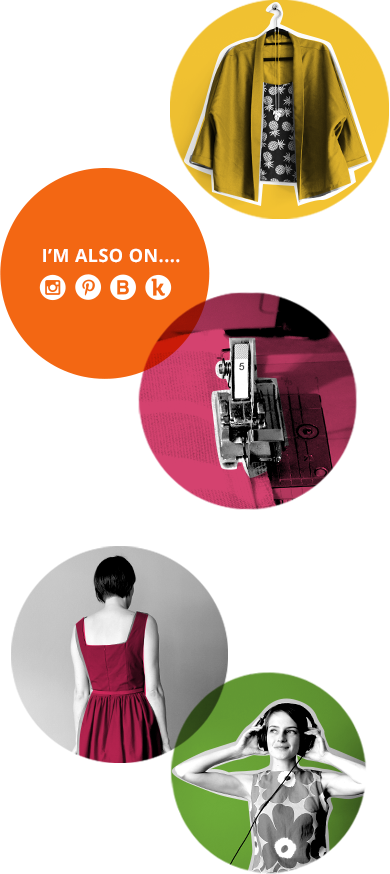
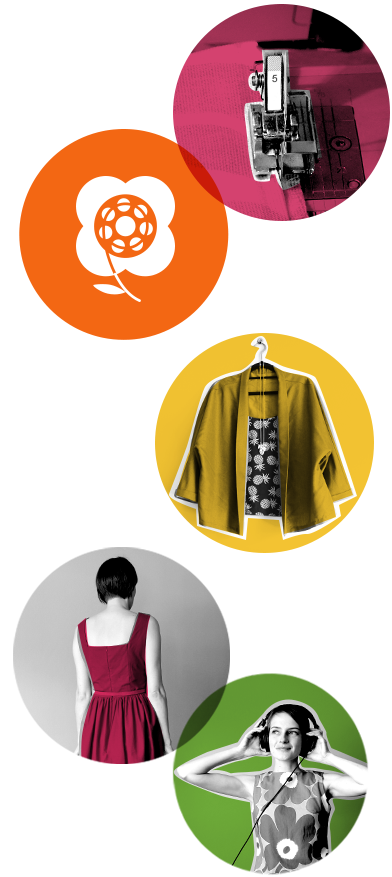
first post is ready to roll!

diff --git a/content/links.md b/content/links.md
@@ -6,13 +6,49 @@ title = "links"
 
 ![links image](/img/berneiandi-links.png)
 
-## SEWING
+## I'm also on...
 
-[A link](http://google.com)  
-[A link](http://google.com)  
-[A link](http://google.com)  
-[A link](http://google.com)  
-[A link](http://google.com)  
-[A link](http://google.com)  
+- [My Instagram](https://www.instagram.com/kathborup/)
+- [My Pinterest](https://au.pinterest.com/kathborup/)
 
+
+## Tutorials
+
+- [Grainline studio (sewing tutorials)](http://grainlinestudio.com/category/sewing-tutorials/)
+- [Sewaholic (sewing tutorials)](http://sewaholic.net/tag/tutorials/)
+- [TILLY AND THE BUTTONS (sewing tutorials)](http://www.tillyandthebuttons.com/p/learn-to-sew.html)
+- [Colette (tutorials)](https://blog.colettehq.com/category/tutorials)
+- [A beautiful mess (craft D.I.Ys)](http://www.abeautifulmess.com/crafts/)
+- [Professor Pincushion (youtube sewing video tutorials)](https://www.youtube.com/user/ProfessorPincushion)
+- [Fashion Sewing TV](https://www.youtube.com/user/FashionSewingBlogTV)
+
+## Communities
+
+- [Burda style](http://www.burdastyle.com/)
+- [Pattern review](http://sewing.patternreview.com/)
+
+## Friends
+
+- [SHARP SCISSORS (podcast)](http://ellenfiggis.com/podcast/)
+- [Natalie Jane Handmade](http://nataliejane-handmade.blogspot.com.au/)
+- [Ginger Makes](https://gingermakes.com/)
+- [Almond Rock](http://almondrock.co.uk/)
+- [Sweet little Chickadee](http://sweetlittlechickadee.com/)
+- [Queen of Darts](http://www.queenofdarts.com/)
+- [crab and bee](https://crabandbee.com/)
+- [THREADFOX](http://www.threadfoxstudio.com/)
+- [Gwenstella made](https://gwenstellamade.wordpress.com/)
+- [Sew this pattern](http://sewthispattern.com/)
+- [Iconic patterns](http://iconicpatterns.com/blog/)
+- [Sew D.I.Y](http://www.sewdiy.com/)
+- [Sewing the 60s](http://sewingthe60s.blogspot.com.au/)
+- [Made by Melanie](http://made-by-melanie.blogspot.com.au/)
+- [How good is that?](http://www.cleverthinking99.com/2014/04/betty-or-joan.html)
+- [That's Sew Amy](http://www.thatssewamy.com/)
+- [Paunnet](http://www.paunnet.com/)
+- [Sew Lonnie](http://sewlonnie.blogspot.com.au/)
+- [House of Pinheiro](http://houseofpinheiro.com/)
+- [lily sage and co](http://lilysageandco.com/)
+- [Oonaballoona from kalkatroona](http://www.oonaballoona.com/)
+- [Sewin' steady](http://sewinsteady.blogspot.com.au/)
 

diff --git a/content/about.md b/content/about.md
@@ -4,56 +4,13 @@ title = "about"
 
 +++
 
-## A headline
+![links image](/img/berneiandi-aboutme.png)
 
-I heart sewing.
+## I'm also on...
 
-I heart sewing.
-
-I heart sewing.
-
-I heart sewing.
-
-I heart sewing.
-
-I heart sewing.
-
-I heart sewing.
-
-I heart sewing.
-
-I heart sewing.
-
-I heart sewing.
-
-I heart sewing.
-
-I heart sewing.
-
-I heart sewing.
-
-I heart sewing.
-
-I heart sewing.
-
-I heart sewing.
-
-I heart sewing.
-
-I heart sewing.
-
-I heart sewing.
-
-I heart sewing.
-
-I heart sewing.
-
-I heart sewing.
-
-I heart sewing.
-
-I heart sewing.
-
-I heart sewing.
-
-I heart sewing.
+My name is Kathrine and I have been a sewing fanatic since I was a teenager. My other passions include: designing, drawing & watching films. 
+ 
+I enjoy sewing clothing that's tailor-made for me and my personal style. I've always wanted to look different and dress in my own way. 
+ 
+I love learning, dressing up and consuming the occasional cocktail. 
+I dislike cold weather, maths, bullies and beige. 

diff --git a/content/post/the-virtues-of-sewing.md b/content/post/the-virtues-of-sewing.md
@@ -1,6 +1,5 @@
 +++
-date = "2016-05-03T21:01:00+10:00"
-draft = true
+date = "2016-05-15T21:01:00+10:00"
 title = "the virtues of sewing"
 
 +++
